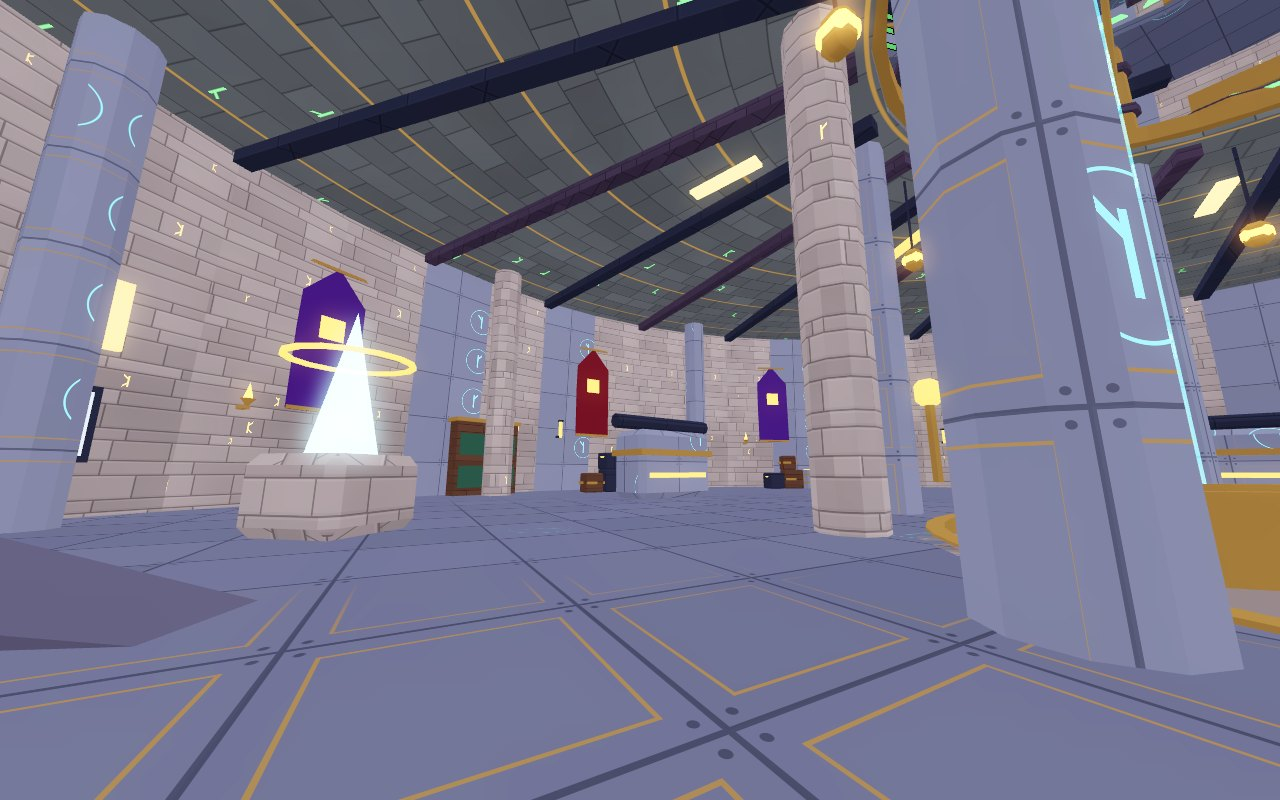
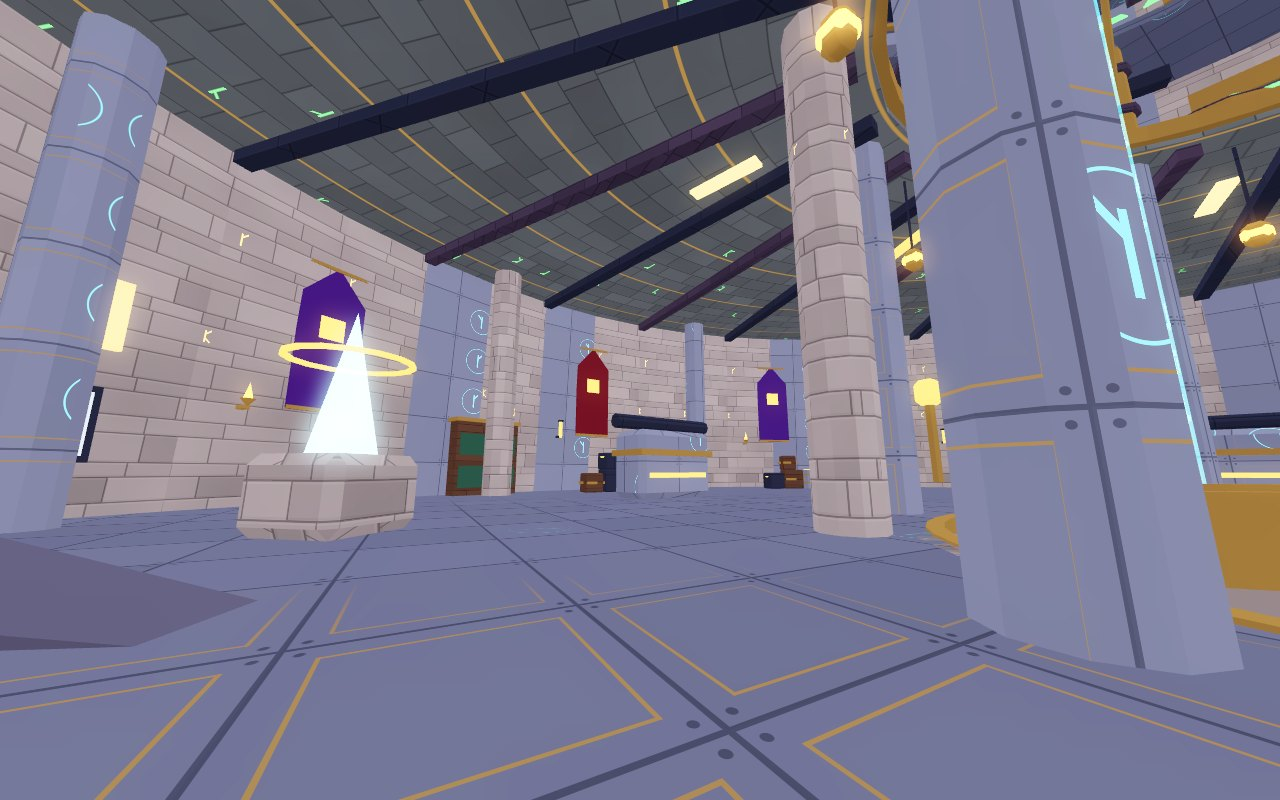
Empyrean Tower: no floating label text
The hologram signs naming each tier and the docking ring are gone, with their
emitters. A check in empyrean_test keeps Label3D out of the map; screenshots
re-shot; the rule is written down in docs/DESIGN.md.

Claude-Session: https://claude.ai/code/session_01NfJBh6VSwZwhPApHRNeq9U

diff --git a/tools/arena/empyrean_dressing.py b/tools/arena/empyrean_dressing.py
@@ -259,7 +259,7 @@ def altar(m, f):
 
 def hall_lights(m, f, i):
     """What every tier shares: its accent in the feature room (a band of light round the
-    back wall, lamps on the balcony fronts), chandeliers to hook, and a hologram sign."""
+    back wall, lamps on the balcony fronts), chandeliers to hook."""
     y0 = TIER * i
     acc = ACCENT[i]
     g = m.group("Lights", f)
@@ -278,12 +278,6 @@ def hall_lights(m, f, i):
     for n in range(8):                   # the upper hall: lamps on the colonnade
         deg = n * 45.0 + 20.0
         m.pb(g, "HallLamp", acc if n % 2 else "glow", RS + 3.5, RS + 6.0, deg, 0.5, y0 + TIER - 0.72, y0 + TIER - 0.6, solid=False)
-    # The sign: a hologram over an emitter, floating at the shaft's rim, read from the shaft.
-    at = P(RS + 0.9, 75.0, y0 + 0.0)
-    m.cyl(g, "SignEmitter", "alloy_dark", at, 0.7, 0.3, sides=8)
-    m.block(g, "SignBeam", "holo", (at[0], at[1] + 2.0, at[2]), (0.3, 3.4, 0.3), shape="cone", sides=6, cols=FLIP, solid=False)
-    m.holo_sign(E.SIGNS[i], P(RS + 0.9, 75.0, y0 + 5.2), 75.0 + 180.0, ACCENT_RGB[i], size=150, pixel=0.014)
-    m.holo_sign(E.SIGNS[i], P(RS + 0.95, 75.0, y0 + 5.2), 75.0, ACCENT_RGB[i], size=150, pixel=0.014)
 
 
 def engine(m, f):
@@ -555,10 +549,6 @@ def observatory(m, f):
         chandelier(m, g, at[0], at[2], TOP - 0.3, 9.0 + (n % 2) * 4.0, acc, wide=3.4)
     for n, (r, deg, y) in enumerate(((RS + 3.0, 200.0, 14.0), (RS + 7.0, 240.0, 19.0), (RS + 4.0, 305.0, 16.0), (RS + 6.5, 80.0, 21.0), (RS + 2.0, 20.0, 17.0))):
         floating_stone(m, g, P(r, deg, y0 + y), 2.4, acc, n + 20)
-    at = P(RS + 0.9, 75.0, y0)
-    m.cyl(g, "SignEmitter", "alloy_dark", at, 0.7, 0.3, sides=8)
-    m.holo_sign(E.SIGNS[i], P(RS + 0.9, 75.0, y0 + 5.2), 255.0, ACCENT_RGB[i], size=150, pixel=0.014)
-    m.holo_sign(E.SIGNS[i], P(RS + 0.95, 75.0, y0 + 5.2), 75.0, ACCENT_RGB[i], size=150, pixel=0.014)
 
 
 def rooms(m, folders):
@@ -884,11 +874,7 @@ def dress(m, folders):
     anchors(m)
     masts(m)
     drones(m)
-    # The docking ring's sign, and the plasma cannon on the starship's back.
-    at = P(E.RING_R - 1.2, 75.0, E.RING_Y)
-    m.cyl("Exterior/DockingRing/Ring", "SignEmitter", "alloy_dark", at, 0.7, 0.3, sides=8)
-    m.holo_sign("DOCKING RING", P(E.RING_R - 1.2, 75.0, E.RING_Y + 4.6), 75.0, ACCENT_RGB[3], size=170, pixel=0.016)
-    m.holo_sign("DOCKING RING", P(E.RING_R - 1.25, 75.0, E.RING_Y + 4.6), 255.0, ACCENT_RGB[3], size=170, pixel=0.016)
+    # The plasma cannon on the starship's back. (No signs anywhere on this map: no floating label text.)
     m.weapon_in("Exterior/DockingRing/Pad/Starship", (0, 5.0, 0.0), "plasma_cannon")
     spawns(m, isles)
     weapons(m)

diff --git a/tools/arena/empyrean.py b/tools/arena/empyrean.py
@@ -58,7 +58,6 @@ FEAT = 10              # sectors 0..9 are the feature room
 ROOT_DEPTH = 42.0      # the root rock hangs this far below y = 0
 KILL = -(ROOT_DEPTH + 46.0)     # the burn layer: 150 ft below the lowest rock
 NAMES = ["ArcaneEngine", "GrandLibrary", "AlchemyLabs", "Menagerie", "SummoningChamber", "Observatory"]
-SIGNS = ["ARCANE ENGINE", "GRAND LIBRARY", "ALCHEMY LABS", "MENAGERIE", "SUMMONING CHAMBER", "OBSERVATORY"]
 ACCENT = ["accent_cyan", "accent_gold", "accent_green", "accent_teal", "accent_violet", "accent_silver"]
 ACCENT_RGB = [(0.25, 0.9, 1.0), (1.0, 0.76, 0.28), (0.35, 0.95, 0.4), (0.2, 0.85, 0.7), (0.66, 0.4, 1.0), (0.88, 0.92, 1.0)]
 LIFT_A, LIFT_B = 75.0, 255.0    # the shaft lifts' angles
@@ -196,10 +195,6 @@ class EmpyreanMap(CirrusMap):
         if reach:
             props.append(("reach", fmt(reach)))
         return self.node(name, parent, "hook", props, type_="Marker3D")
-
-    def holo_sign(self, text, at, deg, col, size=120, pixel=0.012, parent="Signs"):
-        """A sign as a hologram: glowing letters floating over a small emitter, read from outside `deg`."""
-        self.sign(text, at, yaw=math.radians(deg), size=size, col=tuple(col) + (0.9,), parent=parent, pixel=pixel, outline=False, one_sided=True)
 
     def write(self, path):
         scripts = dict(__import__("arena_builder").SCRIPTS)

diff --git a/docs/DESIGN.md b/docs/DESIGN.md
@@ -118,6 +118,7 @@ Decisions Austin has made, so nobody has to ask again. Newest at the top of each
   - Outside is play space, all of it to grapple: eight stabilizer thrusters round the foot (their jets are only light), balconies at every tier, the docking ring at 91.5 m with a parked starship to fight on (an original design, solid all through), sensor masts and dishes on the eaves, and a field of debris within about 76 m of the wall at every height: broken masonry, rune rings, crystal shards, hull plates, a broken satellite, a wrecked shuttle. Most of it is still; three big chunks orbit and carry riders. The field is kept thin, about 28 pieces (halved on 2026-11-18: there were too many floating islands), and the grapple anchors between them are small buoys, not rocks. Small maintenance drones drift about (scenery: no collision).
   - Two kinds of play: outside gravity is 40% and always straight down (toward the planet); inside it is normal. The change is at the wall line, marked by the force-field doorways (players and shots pass through them), and eases over about a second.
   - It has to feel like a wizard's tower in its surfaces and its clutter, not only its shape (2026-11-18): walls of coursed masonry with a rune glowing on a stone here and there, by turns with riveted alloy plates inlaid with brass; every tier's floor is flagstones laid in rings round the shaft in that tier's colour, with glowing runes (a star chart in the Observatory). And it is heavily dressed, always a piece of each half side by side: banners and tapestries by screens, flame sconces by tube lamps, bookcases and potion shelves by data cabinets, lanterns, carpets, vault ribs, pilasters, tables with their clutter, cargo; outside, turrets with cone roofs, lit slit windows, string courses and banners on the balconies.
+  - No floating label text (2026-11-18): the hologram signs naming each tier and the docking ring were removed. We hate floating label text; a place is told apart by its colour and what stands in it, not by a sign.
   - No walls or ceiling outside, on purpose: fling yourself as far or as high as you like. The only way to die out there is the burn layer, a hazy band of hot light 46 m (150 ft) under the root: far enough to save a fall with the grapple, near enough that a fling-off is not a long wait.
   - Inside pushes fights upward: six tiers of 30.5 m round a hollow shaft 16 m across that runs the whole height (bridges at every tier and upper hall, floating stones and grapple anchors up it). From the bottom, each with its own accent colour: Arcane Engine (cyan; the crystal core is a fusion reactor in turning containment rings, and it kills on touch, in a sunken glowing basin), Grand Library (gold; shelves alternating with data-archive stacks, books of light), Alchemy Labs (green; vats and alembics, bio-tanks and robotic arms), Menagerie (teal; cages, vines, xenobotany pods under grow lights), Summoning Chamber (violet; rune circles in deck plates, the altar), Observatory (silver; a space telescope under a hologram of the planet). Every tier but the top is one plan: a feature room 19 m tall facing the shaft with balconies at 6 and 13 m, three storeys of rooms and a tight two-lane corridor along the outer wall, and an upper hall; two spiral ramps and two long ramps between tiers, drop holes, and three or four openings to the outside.
   - Tractor-beam lifts (four: two in the shaft, two up the outside) make climbing fast: about 3 s a tier, and you can shoot on the way and step out at any height.
